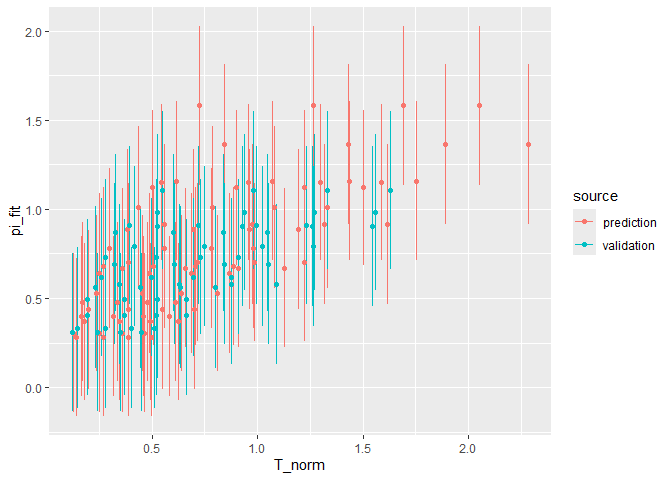
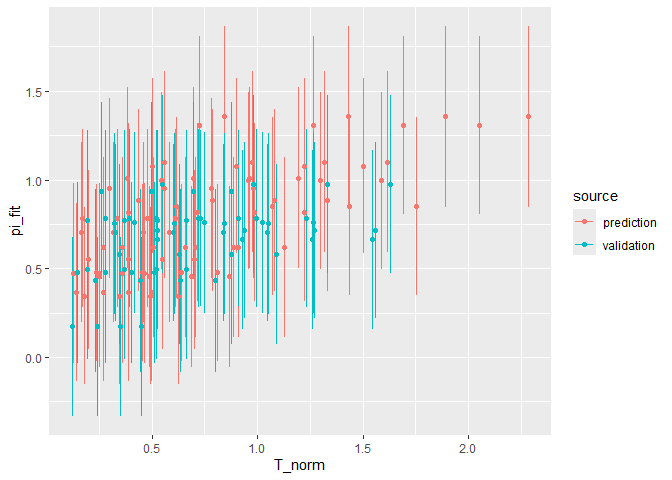
Challenge 11 Resubmission Attempt 1

diff --git a/challenges/c11-psaap-assignment.md b/challenges/c11-psaap-assignment.md
@@ -230,7 +230,7 @@ of fluid, for different experimental settings (e.g. different dimensions
 ##       each identified by different values of idx
 df_psaap %>%
   ggplot(aes(x, T_norm)) +
-  geom_point() 
+  geom_line(aes(group = idx))
 ```
 
 ![](c11-psaap-assignment_files/figure-gfm/q2-task-1.png)<!-- -->
@@ -399,12 +399,16 @@ summary(fit_q4)
   - T_f has a regression coefficient of -0.0003791
 - What is the standard deviation of `x` in `df_psaap`? What about the
   standard deviation of `T_f`?
-  - standard deviation of x is 0.05697
-  - standard deviation of T_f is 0.001173
+  - SD = SE\*sqrt(n)
+    - standard deviation of x is 0.674
+    - standard deviation of T_f is 0.01388
 - How do these standard deviations relate to the regression coefficients
   for `x` and `T_f`?
-  - The lower regression coefficient has a lower standard deviation when
-    comparing x and T_f
+  - Multiplying the regression coefficient and the standard deviation
+    for each variable tells us how much the output varies in response to
+    the input
+  - For x it would be 0.674\*1.018 = 0.686
+  - For T_f it would be -0.00000526
 - Note that literally *all* of the inputs above have *some* effect on
   the output `T_norm`; so they are all “significant” in that sense. What
   does this tell us about the limitations of statistical significance
@@ -641,13 +645,14 @@ pr_level <- 0.8
 
 fit_q6 <- 
   df_psaap %>% 
-  lm(formula = T_norm ~ . - idx - avg_q - avg_T - rms_T - x - L - U_0)
+  lm(formula = T_norm ~ . - idx - avg_q - avg_T - rms_T - x - L - U_0 - W)
 
 uncer_pred <-
   df_psaap %>%
     add_uncertainties(model = fit_q6, level = pr_level, interval = "prediction", prefix = "pi") %>%
   select(T_norm, pi_lwr, pi_fit, pi_upr) %>%
   mutate(source = "prediction")
+
 
 df_valid <-
   df_validate %>%
@@ -676,11 +681,46 @@ validd <-
   pull(in_interval) %>%
   mean()
 
+overall_range <- 
+  uncer_pred %>%
+  summarise(
+    overall_lwr = min(pi_lwr),
+    overall_upr = max(pi_upr)
+  ) %>%
+  mutate(overall_range = overall_upr - overall_lwr)
 
+overall_range
+```
+
+    ## # A tibble: 1 × 3
+    ##   overall_lwr overall_upr overall_range
+    ##         <dbl>       <dbl>         <dbl>
+    ## 1      -0.329        1.86          2.19
+
+``` r
+df_valid
+```
+
+    ## # A tibble: 60 × 5
+    ##    T_norm  pi_lwr pi_fit pi_upr source    
+    ##     <dbl>   <dbl>  <dbl>  <dbl> <chr>     
+    ##  1  0.345  0.0708  0.581  1.09  validation
+    ##  2  0.325  0.204   0.702  1.20  validation
+    ##  3  0.416  0.249   0.759  1.27  validation
+    ##  4  0.122 -0.329   0.173  0.675 validation
+    ##  5  0.526  0.156   0.662  1.17  validation
+    ##  6  0.193  0.272   0.774  1.28  validation
+    ##  7  0.262  0.440   0.938  1.44  validation
+    ##  8  0.392  0.280   0.784  1.29  validation
+    ##  9  0.144 -0.0344  0.477  0.989 validation
+    ## 10  0.194 -0.0113  0.499  1.01  validation
+    ## # ℹ 50 more rows
+
+``` r
 validd
 ```
 
-    ## [1] 0.8333333
+    ## [1] 0.8666667
 
 **Recommendation**:
 
@@ -702,7 +742,8 @@ validd
   - This is above the pr_level which is good
 - What interval for `T_norm` would you recommend the design team to plan
   around?
-  - 0-1.7
+  - -0.329 - 1.8639
+  - With 0.8 confidence the value of T_norm would fall in this interval
 - Are there any other recommendations you would provide?
   - It would best to test this against further validation data
     considering this is just one instance of values that could occur.
